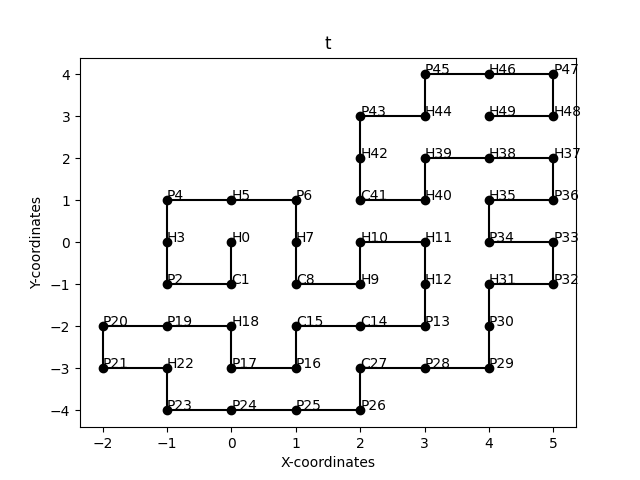
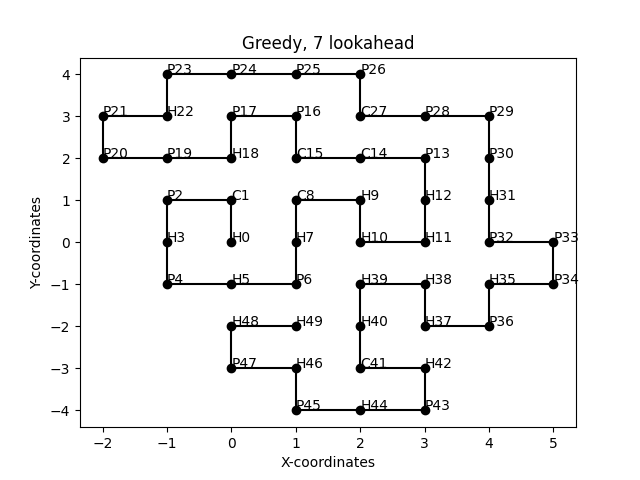
lookahead backtrack fix, completely working nuw

diff --git a/code/algorithms/greedy.py b/code/algorithms/greedy.py
@@ -140,7 +140,7 @@ class Greedy(Random):
         for k in range(runs):
             
             # Keep track of progression while running
-            if k % 50 == 0:
+            if k % 1 == 0:
                 print(f"Total number of iterations done: {k}")
 
             # Finish a protein with greedy folding
@@ -218,6 +218,12 @@ class GreedyLookahead(Greedy, GreedyDepth):
         Initiates first states in the stack for the depth first algorithm.
         '''
         start_state = copy.deepcopy(self.protein)
+
+        # Remove folds from list if in forbidden lists
+        acid = start_state.aminoacids[self.i]
+        for j in range(len(acid.forbidden_folds)):
+            if acid.forbidden_folds[j] in start_state.depth_values:
+                start_state.depth_values.remove(acid.forbidden_folds[j])
 
         # Make sure DepthFirst knows what amino acid should be folded next in the protein 
         start_state.depth_index = self.i

diff --git a/code/algorithms/depth_first.py b/code/algorithms/depth_first.py
@@ -15,6 +15,8 @@ class DepthFirst():
         self.best_solutions = []
         self.best_stability = 0
 
+        self.temp = 0
+
 
     def get_next_state(self):
         '''
@@ -134,9 +136,10 @@ class DepthFirst():
                 self.build_children(curr_state)
         
         # Fill original protein class with a best solution to visualize data
-        final_solution = random.choice(self.best_solutions)
-        self.protein.positions = final_solution[1]
-        self.protein.score = final_solution[0]
+        if self.best_solutions:
+            final_solution = random.choice(self.best_solutions)
+            self.protein.positions = final_solution[1]
+            self.protein.score = final_solution[0]
 
 
     def initiate(self):
